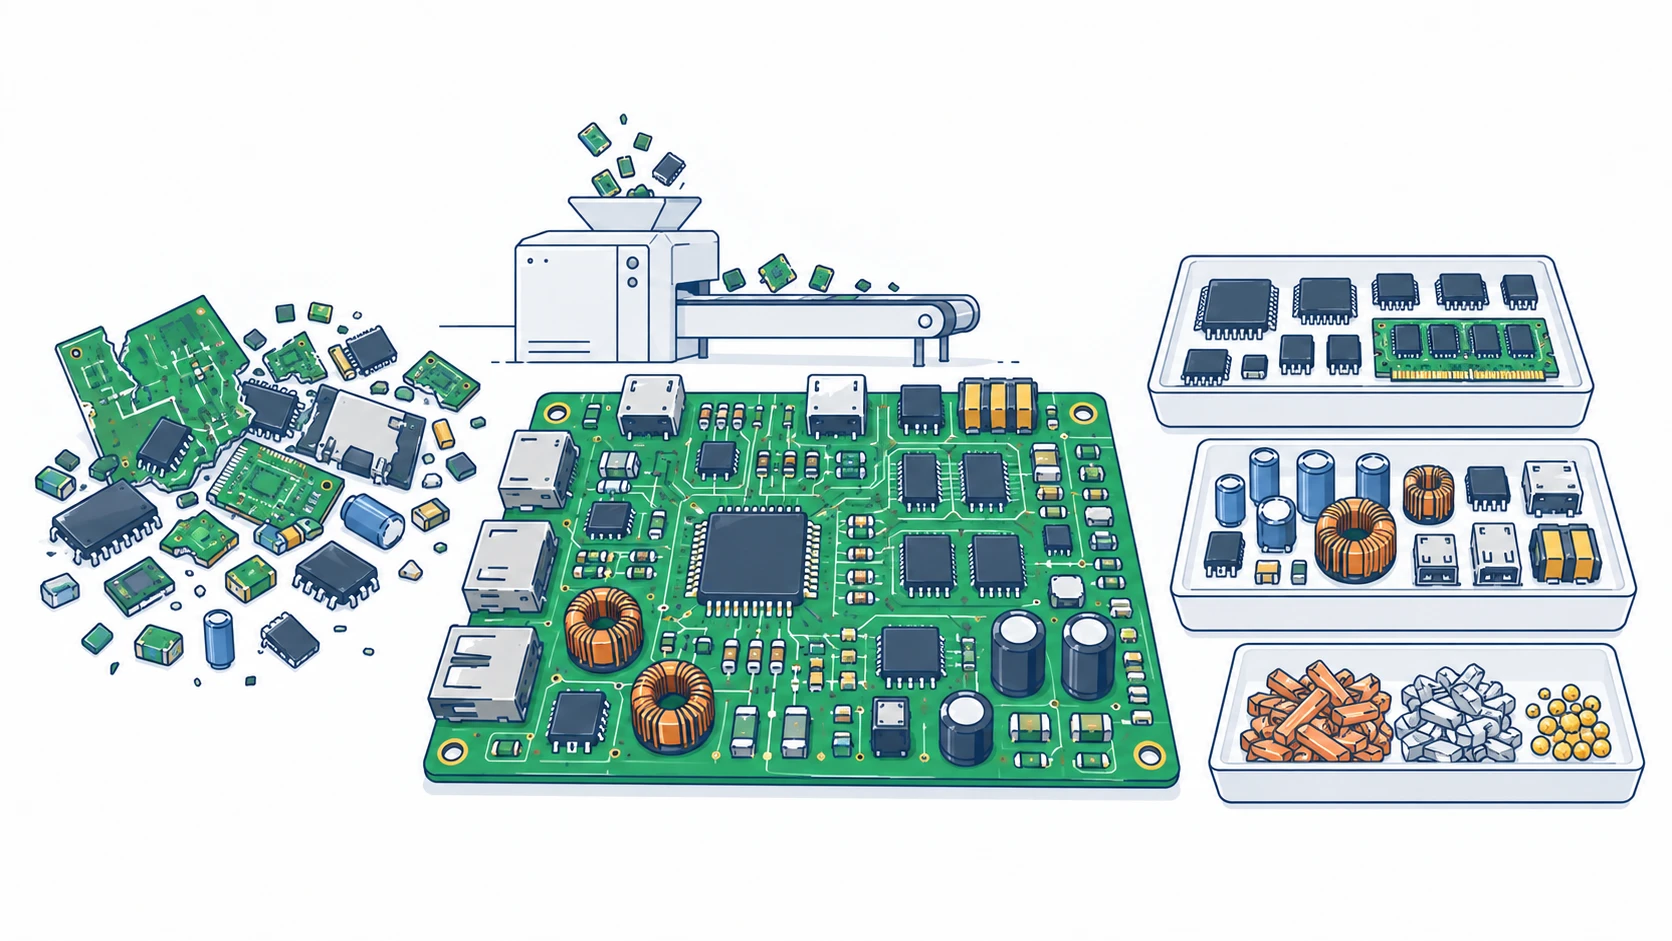
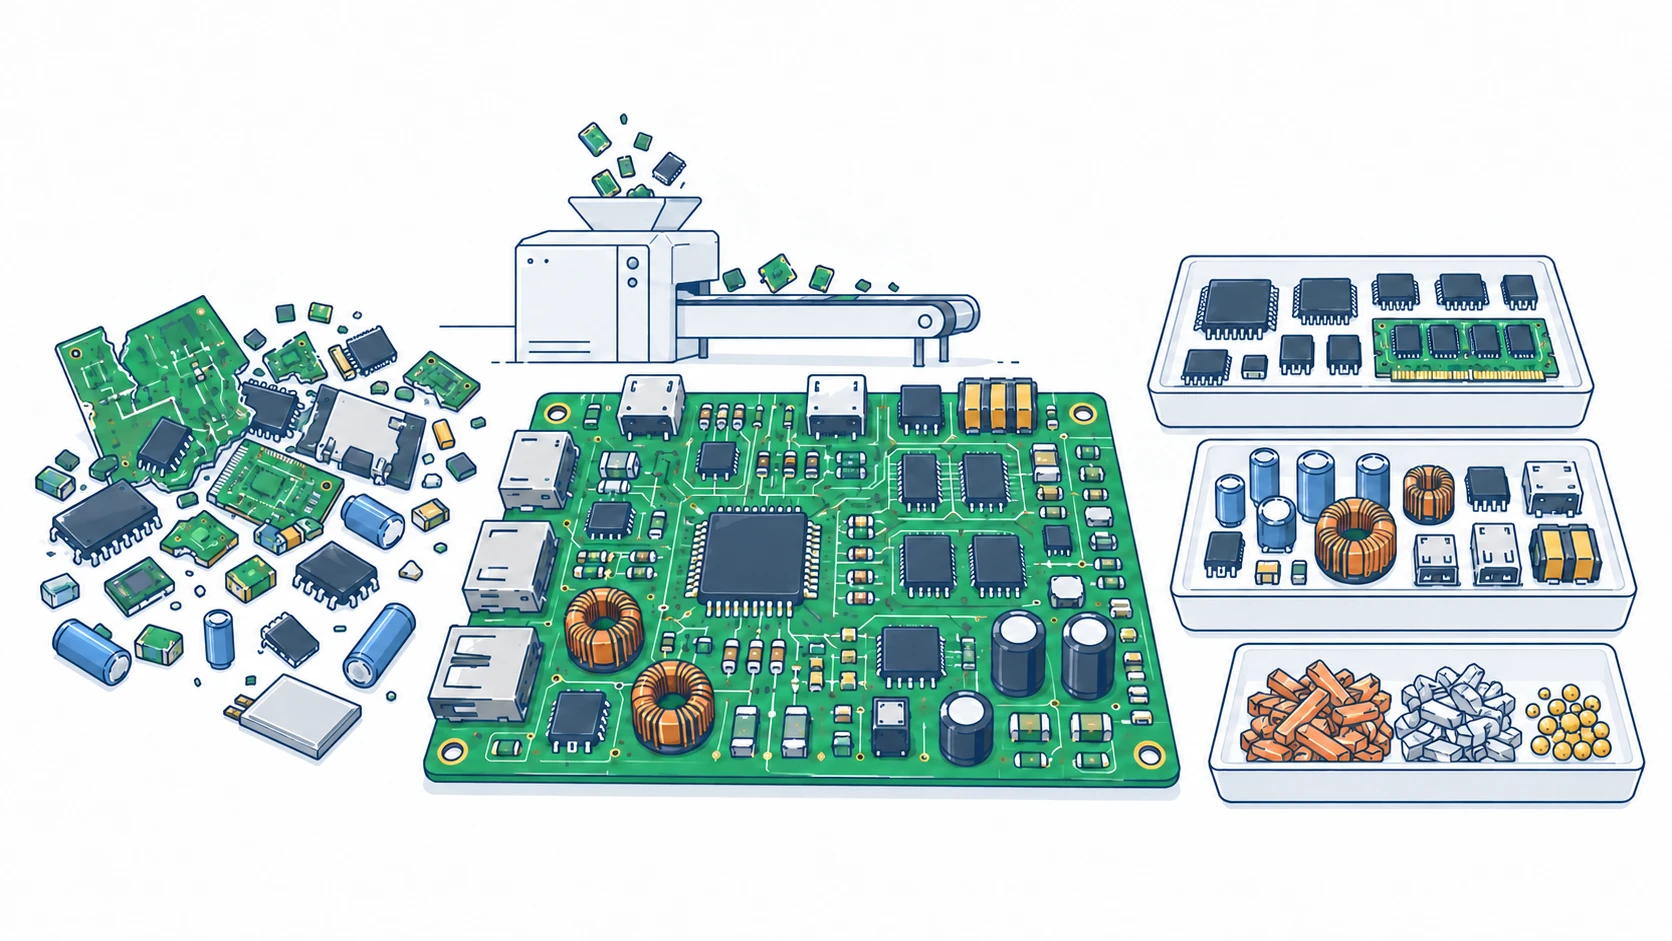
Full author lists, DOI links, and shared data source for publications
- publications.js is now the single source of truth: the Research page
  renders its per-module paper lists from the same PUBLICATIONS array
  as the Publications page, instead of a separately hand-maintained
  hardcoded list (eliminates the formatting drift between the two).
- Added full author lists everywhere (previously several entries had
  abbreviated "et al." or no authors shown at all).
- Corrected the waste-to-graphite citation using the published Nature
  Reviews Clean Technology version: full author list and the correct
  title ("...environmental implications..." not "...sustainability
  implications...").
- Added confirmed DOI/patent links to 17 of 21 entries; the ICCAD 2026
  paper, the under-review paper, and the poster have no public page to
  link yet.
- Renamed "Electronic Waste Recycling" to "E-Waste Recycling & Waste
  Valorization" site-wide (homepage, Research page, Publications
  filter).
- Swapped in the updated e-waste illustration and the full IEDM author
  list/venue the user supplied.
- Homepage email pill now shows the address as visible text.

diff --git a/js/publications.js b/js/publications.js
@@ -1,124 +1,140 @@
-// Publications data + client-side filtering (topic tag + type)
+// Publications data — single source of truth for both the Publications
+// page (filterable list) and the Research page (per-module paper lists).
 
 const PUBLICATIONS = [
   // ---- Computing Systems & Data Center Sustainability ----
   {
     title: "Rethinking Data Center Sustainability Metrics Through a Life-Cycle Lens",
-    venue: "Poster, 2026 Gordon Research Conference (GRC) on Industrial Ecology",
+    venue: "Chen, Z. &mdash; Poster, 2026 Gordon Research Conference (GRC) on Industrial Ecology",
     year: 2026, type: "poster", status: "published", topic: "computing"
   },
   {
     title: "Material efficiency key for decarbonizing global data centers",
-    venue: "Journal article (journal name withheld while under review)",
+    venue: "Chen, Z., Kleijn, R., Cao, Z., Yao, Y., Chen, W., Wei, S., Peng, P. &amp; Lin, H.-X. &mdash; journal name withheld while under review",
     year: null, type: "journal", status: "under-review", topic: "computing"
   },
   {
     title: "Quantifying the carbon footprint of next directions in 3D NAND flash and DRAM fabrication",
-    venue: "Grey-Stewart, Elgamal, Kong, Chen, Piao, Yao, Hills &mdash; ICCAD 2026",
+    venue: "Grey-Stewart, D., Elgamal, M., Kong, D., Chen, Z., Piao, Z., Yao, Y. &amp; Hills, G. &mdash; 2026 International Conference on Computer-Aided Design (ICCAD)",
     year: 2026, type: "conference", status: "published", topic: "computing"
   },
   {
-    title: "Quantifying trade-offs in power, performance, area, and total carbon footprint (PPAtC) of next directions in FET technologies for VLSI digital logic circuits",
-    venue: "Kong, Grey-Stewart, Elgamal, Chen, Piao, Morris, Yao et al. &mdash; IEDM 2026",
+    title: "Quantifying Trade-Offs in Power, Performance, Area, and Total Carbon Footprint (PPAtC) of Next Directions in FET Technologies for VLSI Digital Logic Circuits",
+    venue: "Kong, D.*, Grey-Stewart, D.*, Elgamal, M., Chen, Z., Piao, Z., Morris, J., Yao, Y. &amp; Hills, G. &mdash; 72nd International Electron Devices Meeting (IEDM). *Equal contribution.",
     year: 2026, type: "conference", status: "published", topic: "computing"
   },
 
   // ---- Renewable Energy: Material Demand & Environmental Impacts ----
   {
     title: "Metal requirements for building electrical grid systems of global wind power and utility-scale solar photovoltaic until 2050",
-    venue: "Chen, Kleijn &amp; Lin &mdash; Environmental Science &amp; Technology 57, 1080&ndash;1091",
-    year: 2023, type: "journal", status: "published", topic: "renewable"
+    venue: "Chen, Z., Kleijn, R. &amp; Lin, H.-X. &mdash; Environmental Science &amp; Technology 57(2), 1080&ndash;1091",
+    year: 2023, type: "journal", status: "published", topic: "renewable",
+    link: "https://doi.org/10.1021/acs.est.2c06496"
   },
   {
     title: "Fuel cell and electric vehicles: resource use and associated environmental impacts",
-    venue: "Chen, Kleijn, Zhang &amp; Lin &mdash; Resources, Conservation &amp; Recycling 226, 108646",
-    year: 2026, type: "journal", status: "published", topic: "renewable"
+    venue: "Chen, Z., Kleijn, R., Zhang, C. &amp; Lin, H.-X. &mdash; Resources, Conservation &amp; Recycling 226, 108646",
+    year: 2026, type: "journal", status: "published", topic: "renewable",
+    link: "https://doi.org/10.1016/j.resconrec.2025.108646"
   },
   {
     title: "Integrating resource constraints into green hydrogen scenarios: material demand and mitigation pathways for electrolyzer metals",
-    venue: "Chen, Kleijn &amp; Lin &mdash; PhD dissertation chapter",
+    venue: "Chen, Z., Kleijn, R. &amp; Lin, H.-X. &mdash; PhD dissertation chapter, Leiden University",
     year: 2026, type: "working-paper", status: "working-paper", topic: "renewable",
     link: "https://hdl.handle.net/1887/4289526"
   },
   {
     title: "Dynamic material flow analysis of aluminum from automobiles in China during 2000&ndash;2050 for standardized recycling management",
-    venue: "Yang, Zhang, Chen, Gao &amp; Xu &mdash; Journal of Cleaner Production 337, 130544",
-    year: 2022, type: "journal", status: "published", topic: "renewable"
+    venue: "Yang, C., Zhang, L., Chen, Z., Gao, Y. &amp; Xu, Z. &mdash; Journal of Cleaner Production 337, 130544",
+    year: 2022, type: "journal", status: "published", topic: "renewable",
+    link: "https://doi.org/10.1016/j.jclepro.2022.130544"
   },
   {
     title: "Tracking and quantifying the cobalt flows in mainland China during 1994&ndash;2016",
-    venue: "Chen, Zhang &amp; Xu &mdash; Science of The Total Environment 672, 752&ndash;762",
-    year: 2019, type: "journal", status: "published", topic: "renewable"
+    venue: "Chen, Z., Zhang, L. &amp; Xu, Z. &mdash; Science of The Total Environment 672, 752&ndash;762",
+    year: 2019, type: "journal", status: "published", topic: "renewable",
+    link: "https://doi.org/10.1016/j.scitotenv.2019.02.411"
   },
   {
     title: "Global supply risk assessment of the metals used in clean energy technologies",
-    venue: "Zhang, Chen, Yang &amp; Xu &mdash; Journal of Cleaner Production 331, 129602",
+    venue: "Zhang, L., Chen, Z., Yang, C. &amp; Xu, Z. &mdash; Journal of Cleaner Production 331, 129602",
     year: 2022, type: "journal", status: "published", topic: "renewable",
     link: "https://doi.org/10.1016/j.jclepro.2021.129602"
   },
 
-  // ---- Electronic Waste Recycling ----
+  // ---- E-Waste Recycling & Waste Valorization ----
   {
     title: "Recovery of tantalum from waste tantalum capacitors by supercritical water treatment",
-    venue: "Niu, Chen &amp; Xu &mdash; ACS Sustainable Chemistry &amp; Engineering 5(5), 4421&ndash;4428",
-    year: 2017, type: "journal", status: "published", topic: "ewaste"
+    venue: "Niu, B., Chen, Z. &amp; Xu, Z. &mdash; ACS Sustainable Chemistry &amp; Engineering 5(5), 4421&ndash;4428",
+    year: 2017, type: "journal", status: "published", topic: "ewaste",
+    link: "https://doi.org/10.1021/acssuschemeng.7b00496"
   },
   {
     title: "Vacuum pyrolysis characteristics and parameter optimization of recycling organic materials from waste tantalum capacitors",
-    venue: "Chen, Niu, Zhang &amp; Xu &mdash; Journal of Hazardous Materials 342, 192&ndash;200",
-    year: 2018, type: "journal", status: "published", topic: "ewaste"
+    venue: "Chen, Z., Niu, B., Zhang, L. &amp; Xu, Z. &mdash; Journal of Hazardous Materials 342, 192&ndash;200",
+    year: 2018, type: "journal", status: "published", topic: "ewaste",
+    link: "https://doi.org/10.1016/j.jhazmat.2017.08.021"
   },
   {
     title: "Analysis of cobalt flows in mainland China: exploring potential opportunities for improving resource efficiency and supply security",
-    venue: "Chen, Zhang &amp; Xu &mdash; Journal of Cleaner Production 275, 122841",
-    year: 2020, type: "journal", status: "published", topic: "ewaste"
+    venue: "Chen, Z., Zhang, L. &amp; Xu, Z. &mdash; Journal of Cleaner Production 275, 122841",
+    year: 2020, type: "journal", status: "published", topic: "ewaste",
+    link: "https://doi.org/10.1016/j.jclepro.2020.122841"
   },
   {
     title: "Method for recycling tantalum from waste tantalum capacitors by chloride metallurgy",
-    venue: "Niu, Chen &amp; Xu &mdash; ACS Sustainable Chemistry &amp; Engineering 5(2), 1376&ndash;1381",
-    year: 2017, type: "journal", status: "published", topic: "ewaste"
+    venue: "Niu, B., Chen, Z. &amp; Xu, Z. &mdash; ACS Sustainable Chemistry &amp; Engineering 5(2), 1376&ndash;1381",
+    year: 2017, type: "journal", status: "published", topic: "ewaste",
+    link: "https://doi.org/10.1021/acssuschemeng.6b01839"
   },
   {
     title: "Application of pyrolysis to recycling organics from waste tantalum capacitors",
-    venue: "Niu, Chen &amp; Xu &mdash; Journal of Hazardous Materials 335, 39&ndash;46",
-    year: 2017, type: "journal", status: "published", topic: "ewaste"
+    venue: "Niu, B., Chen, Z. &amp; Xu, Z. &mdash; Journal of Hazardous Materials 335, 39&ndash;46",
+    year: 2017, type: "journal", status: "published", topic: "ewaste",
+    link: "https://doi.org/10.1016/j.jhazmat.2017.04.024"
   },
   {
     title: "An integrated and environmental-friendly technology for recovering valuable materials from waste tantalum capacitors",
-    venue: "Niu, Chen &amp; Xu &mdash; Journal of Cleaner Production 166, 512&ndash;518",
-    year: 2017, type: "journal", status: "published", topic: "ewaste"
+    venue: "Niu, B., Chen, Z. &amp; Xu, Z. &mdash; Journal of Cleaner Production 166, 512&ndash;518",
+    year: 2017, type: "journal", status: "published", topic: "ewaste",
+    link: "https://doi.org/10.1016/j.jclepro.2017.08.043"
   },
   {
     title: "Recovery of valuable materials from waste tantalum capacitors by vacuum pyrolysis combined with mechanical&ndash;physical separation",
-    venue: "Niu, Chen &amp; Xu &mdash; ACS Sustainable Chemistry &amp; Engineering 5(3), 2639&ndash;2647",
-    year: 2017, type: "journal", status: "published", topic: "ewaste"
+    venue: "Niu, B., Chen, Z. &amp; Xu, Z. &mdash; ACS Sustainable Chemistry &amp; Engineering 5(3), 2639&ndash;2647",
+    year: 2017, type: "journal", status: "published", topic: "ewaste",
+    link: "https://doi.org/10.1021/acssuschemeng.6b02988"
   },
   {
     title: "Recycling waste tantalum capacitors to synthesize high value-added Ta2O5 and polyaniline-decorated Ta2O5 photocatalyst",
-    venue: "Niu, Chen &amp; Xu &mdash; Journal of Cleaner Production 252, 117206",
-    year: 2020, type: "journal", status: "published", topic: "ewaste"
+    venue: "Niu, B., Chen, Z. &amp; Xu, Z. &mdash; Journal of Cleaner Production 252, 117206",
+    year: 2020, type: "journal", status: "published", topic: "ewaste",
+    link: "https://doi.org/10.1016/j.jclepro.2019.06.037"
   },
   {
-    title: "Supply chain and sustainability implications of waste-to-graphite",
-    venue: "Zhang, Chen, Wang, Xu, Piao, Klee, Reck, Li, Park et al. &mdash; Nature Reviews Clean Technology, 1&ndash;18",
-    year: 2026, type: "journal", status: "published", topic: "ewaste"
+    title: "Supply chain and environmental implications of waste-to-graphite",
+    venue: "Zhang, B., Chen, Z., Wang, H., Xu, Y., Piao, Z., Klee, R., Reck, B. K., Li, T., Park, S., Hu, L. &amp; Yao, Y. &mdash; Nature Reviews Clean Technology",
+    year: 2026, type: "journal", status: "published", topic: "ewaste",
+    link: "https://www.nature.com/articles/s44359-026-00219-5"
   },
   {
     title: "Process for synthesizing tantalum oxynitride (TaON) photocatalysts from spent tantalum capacitors",
-    venue: "Xu, Niu &amp; Chen &mdash; Patent CN106276827B, Shanghai Jiao Tong University",
-    year: 2018, type: "patent", status: "granted", topic: "ewaste"
+    venue: "Xu, Z., Niu, B. &amp; Chen, Z. &mdash; Patent CN106276827B, Shanghai Jiao Tong University",
+    year: 2018, type: "patent", status: "granted", topic: "ewaste",
+    link: "https://patents.google.com/patent/CN106276827B"
   },
   {
     title: "Method and technical process for producing ultrafine Ta₂O₅ from spent tantalum capacitors",
-    venue: "Xu, Niu &amp; Chen &mdash; Patent CN106186066B, Shanghai Jiao Tong University",
-    year: 2018, type: "patent", status: "granted", topic: "ewaste"
+    venue: "Xu, Z., Niu, B. &amp; Chen, Z. &mdash; Patent CN106186066B, Shanghai Jiao Tong University",
+    year: 2018, type: "patent", status: "granted", topic: "ewaste",
+    link: "https://patents.google.com/patent/CN106186066B"
   }
 ];
 
 const TOPIC_LABELS = {
   computing: "Computing Systems & Data Center Sustainability",
   renewable: "Renewable Energy: Material Demand & Environmental Impacts",
-  ewaste: "Electronic Waste Recycling"
+  ewaste: "E-Waste Recycling & Waste Valorization"
 };
 
 const TYPE_LABELS = {
@@ -131,12 +147,15 @@ const STATUS_LABELS = {
   granted: "Granted", "working-paper": "Working paper"
 };
 
+// ---------- Publications page (filterable list) ----------
+
 let activeTopic = "all";
 let activeType = "all";
 
 function renderFilters() {
   const topicGroup = document.getElementById("topic-filters");
   const typeGroup = document.getElementById("type-filters");
+  if (!topicGroup || !typeGroup) return;
 
   const topics = ["all", ...Object.keys(TOPIC_LABELS)];
   topicGroup.innerHTML = topics.map(t =>
@@ -166,6 +185,7 @@ function renderFilters() {
 
 function renderList() {
   const list = document.getElementById("pub-list");
+  if (!list) return;
   const filtered = PUBLICATIONS.filter(p =>
     (activeTopic === "all" || p.topic === activeTopic) &&
     (activeType === "all" || p.type === activeType)
@@ -192,7 +212,23 @@ function renderList() {
   `).join("");
 }
 
+// ---------- Research page (per-module full paper list) ----------
+
+function renderResearchModules() {
+  document.querySelectorAll("[data-paper-topic]").forEach(container => {
+    const topic = container.dataset.paperTopic;
+    const papers = PUBLICATIONS.filter(p => p.topic === topic);
+    container.innerHTML = papers.map(p => `
+      <li>
+        <p class="paper-title">${p.link ? `<a href="${p.link}" target="_blank" rel="noopener">${p.title}</a>` : p.title}</p>
+        <p class="paper-venue">${p.venue}<span class="status">${p.year ? ' &middot; ' + p.year : ''} &middot; ${STATUS_LABELS[p.status]}</span></p>
+      </li>
+    `).join("");
+  });
+}
+
 document.addEventListener("DOMContentLoaded", () => {
   renderFilters();
   renderList();
+  renderResearchModules();
 });

diff --git a/research.html b/research.html
@@ -31,43 +31,19 @@
     <div class="research-card" id="computing">
       <span class="icon"><img src="images/research-computing.webp" alt="Line illustration of a data center with servers, a chip, and a wafer"></span>
       <h3>Computing Systems &amp; Data Center Sustainability</h3>
-      <ul class="paper-list">
-        <li>Rethinking Data Center Sustainability Metrics Through a Life-Cycle Lens <span class="status">Poster &middot; GRC 2026</span></li>
-        <li>Material efficiency key for decarbonizing global data centers <span class="status">Under review</span></li>
-        <li>Quantifying the carbon footprint of next directions in 3D NAND flash and DRAM fabrication <span class="status">ICCAD 2026</span></li>
-        <li>Quantifying trade-offs in power, performance, area, and total carbon footprint (PPAtC) of next directions in FET technologies <span class="status">IEDM 2026</span></li>
-      </ul>
+      <ul class="paper-list" data-paper-topic="computing"></ul>
     </div>
 
     <div class="research-card" id="renewable">
       <span class="icon"><img src="images/research-renewable.webp" alt="Line illustration of solar panels, wind turbines, an EV, and a hydrogen electrolyzer"></span>
       <h3>Renewable Energy: Material Demand &amp; Environmental Impacts</h3>
-      <ul class="paper-list">
-        <li>Metal requirements for building electrical grid systems of global wind power and utility-scale solar PV until 2050 <span class="status">EST 2023</span></li>
-        <li>Fuel cell and electric vehicles: resource use and associated environmental impacts <span class="status">RCR 2026</span></li>
-        <li>Integrating resource constraints into green hydrogen scenarios: material demand and mitigation pathways for electrolyzer metals <span class="status">Working paper</span></li>
-        <li>Dynamic material flow analysis of aluminum from automobiles in China, 2000&ndash;2050 <span class="status">JCLEPRO 2022</span></li>
-        <li>Tracking and quantifying the cobalt flows in mainland China, 1994&ndash;2016 <span class="status">STOTEN 2019</span></li>
-        <li>Global supply risk assessment of metals used in clean energy technologies <span class="status">JCLEPRO 2022</span></li>
-      </ul>
+      <ul class="paper-list" data-paper-topic="renewable"></ul>
     </div>
 
     <div class="research-card" id="ewaste">
       <span class="icon"><img src="images/research-ewaste.webp" alt="Line illustration of a PCB being disassembled and sorted into recycling bins"></span>
-      <h3>Electronic Waste Recycling</h3>
-      <ul class="paper-list">
-          <li>Recovery of tantalum from waste tantalum capacitors by supercritical water treatment <span class="status">ACS SCE 2017</span></li>
-          <li>Vacuum pyrolysis characteristics and parameter optimization of recycling organic materials from waste tantalum capacitors <span class="status">JHM 2018</span></li>
-          <li>Analysis of cobalt flows in mainland China: resource efficiency and supply security <span class="status">JCLEPRO 2020</span></li>
-          <li>Method for recycling tantalum from waste tantalum capacitors by chloride metallurgy <span class="status">ACS SCE 2017</span></li>
-          <li>Application of pyrolysis to recycling organics from waste tantalum capacitors <span class="status">JHM 2017</span></li>
-          <li>An integrated and environmental-friendly technology for recovering valuable materials from waste tantalum capacitors <span class="status">JCLEPRO 2017</span></li>
-          <li>Recovery of valuable materials from waste tantalum capacitors by vacuum pyrolysis combined with mechanical&ndash;physical separation <span class="status">ACS SCE 2017</span></li>
-          <li>Recycling waste tantalum capacitors to synthesize high value-added Ta2O5 and polyaniline-decorated Ta2O5 photocatalyst <span class="status">JCLEPRO 2020</span></li>
-          <li>Supply chain and sustainability implications of waste-to-graphite <span class="status">NRCT 2026</span></li>
-          <li>Process for synthesizing TaON photocatalysts from spent tantalum capacitors <span class="status">Patent, granted</span></li>
-        <li>Method for producing ultrafine Ta&#8322;O&#8325; from spent tantalum capacitors <span class="status">Patent, granted</span></li>
-      </ul>
+      <h3>E-Waste Recycling &amp; Waste Valorization</h3>
+      <ul class="paper-list" data-paper-topic="ewaste"></ul>
     </div>
 
   </div>
@@ -79,5 +55,6 @@
   <span>New Haven, CT</span>
 </footer>
 
+<script src="js/publications.js"></script>
 </body>
 </html>

diff --git a/index.html b/index.html
@@ -32,7 +32,7 @@
         <p>I was fortunate to work with amazing mentors that inspired me to work at the intersection of chemical engineering, environmental engineering, and industrial ecology. During my PhD at Leiden University, I worked with Professors Hai Xiang Lin and Ren&eacute; Kleijn, researching the critical material demand and associated environmental impacts of renewable energy systems and data center infrastructure. Before that, during my master's at Shanghai Jiao Tong University, I worked with Professors Zhenming Xu and Bo Niu, developing recycling technologies for electronic waste and analyzing the environmental impacts of e-waste recycling processes.</p>
       </div>
       <div class="pills">
-        <a class="pill solid" href="mailto:zhenyang.chen@yale.edu">Email</a>
+        <a class="pill solid" href="mailto:zhenyang.chen@yale.edu">zhenyang.chen@yale.edu</a>
         <a class="pill" href="https://scholar.google.com/citations?user=XvmgScAAAAAJ&hl=en" target="_blank" rel="noopener">Google Scholar</a>
         <a class="pill" href="https://www.linkedin.com/in/zhenyang-chen-a50482255" target="_blank" rel="noopener">LinkedIn</a>
       </div>
@@ -76,9 +76,9 @@
         <span class="icon">
           <img src="images/home-ewaste.webp" alt="A printed circuit board with components, next to recycled metal and e-waste">
         </span>
-        <h3>Electronic Waste Recycling</h3>
+        <h3>E-Waste Recycling &amp; Waste Valorization</h3>
         <ul class="mini-papers">
-          <li>Supply chain and sustainability implications of waste-to-graphite &mdash; Nature Rev. Clean Tech. 2026</li>
+          <li>Supply chain and environmental implications of waste-to-graphite &mdash; Nature Rev. Clean Tech. 2026</li>
           <li>Analysis of cobalt flows in mainland China &mdash; JCLEPRO 2020</li>
           <li>Recovery of tantalum from waste capacitors by supercritical water treatment &mdash; ACS SCE 2017</li>
         </ul>

diff --git a/css/style.css b/css/style.css
@@ -421,19 +421,31 @@ footer {
 }
 
 .paper-list li {
-  font-size: 14px;
-  padding: 7px 0;
-  color: var(--ink-soft);
+  padding: 12px 0;
   border-bottom: 1px dotted var(--line);
 }
 .paper-list li:last-child { border: none; }
+
+.paper-list .paper-title {
+  font-size: 14px;
+  font-weight: 500;
+  color: var(--ink);
+  margin: 0 0 4px;
+  line-height: 1.4;
+}
+
+.paper-list .paper-venue {
+  font-size: 12.5px;
+  color: var(--ink-soft);
+  margin: 0;
+  line-height: 1.5;
+}
 
 .paper-list .status {
   font-size: 10.5px;
   text-transform: uppercase;
   letter-spacing: 0.04em;
   color: var(--navy);
-  margin-left: 6px;
 }
 
 /* ---------- Publications page ---------- */
